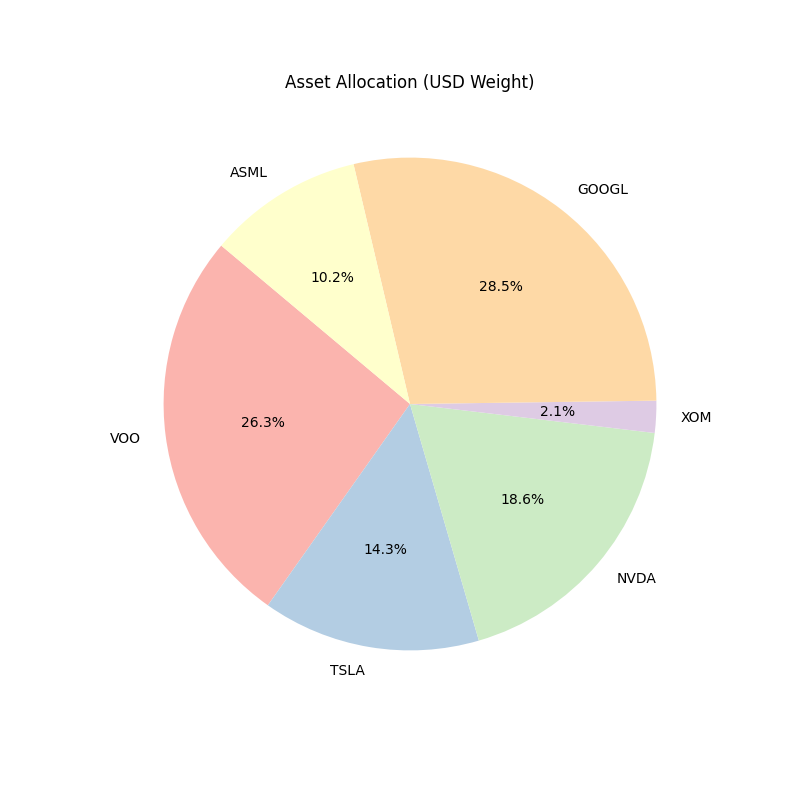
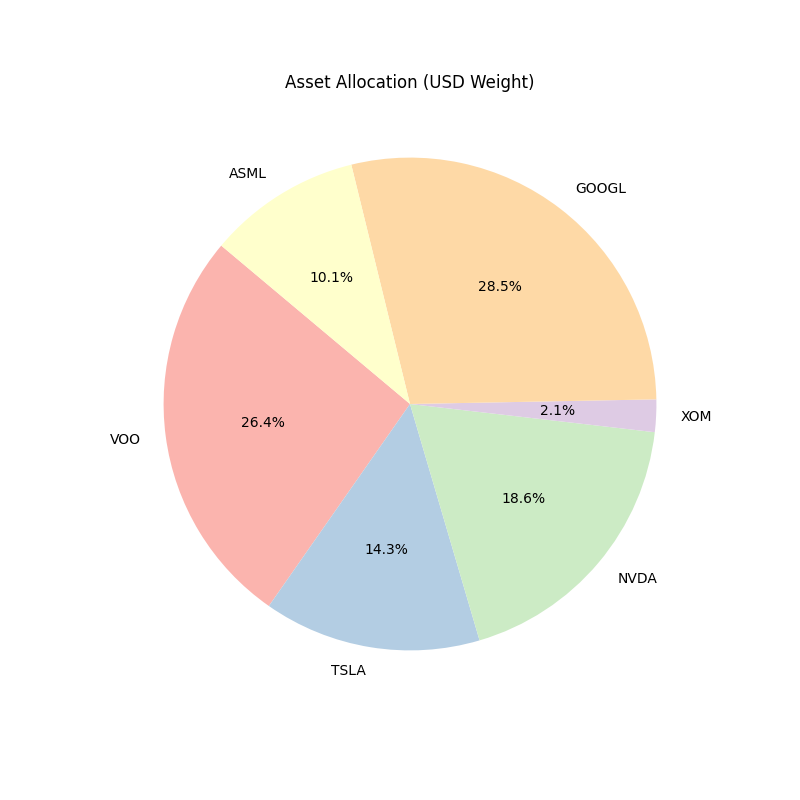
Data Update: Prices & Charts [skip ci]

diff --git a/README.md b/README.md
@@ -1,12 +1,12 @@
 # 📊 Portfolio Dashboard
-**עודכן ב:** 19/02/2026 00:39 | **שער דולר:** ₪3.119
+**עודכן ב:** 19/02/2026 16:54 | **שער דולר:** ₪3.136
 
 ## 💰 סיכום ביצועים כולל
-- **שווי תיק:** `₪179,475`
-- **תשואה מצטברת:** `+36.66%`
+- **שווי תיק:** `₪179,594`
+- **תשואה מצטברת:** `+36.02%`
 - **מקס' ירידה מהשיא (Drawdown):** `-24.97%`
-- **מניית הכוכב 🚀:** ASML (+97.1%)
-- **המאכזבת 📉:** VOO (+13.9%)
+- **מניית הכוכב 🚀:** ASML (+93.3%)
+- **המאכזבת 📉:** VOO (+13.8%)
 
 ## 📈 גרף ביצועים (מול S&P 500)
 ![Performance](./data_hub/portfolio_performance.png)
@@ -17,12 +17,12 @@
 ## 📊 פירוט אחזקות
 | מניה | כמות | שווי (₪) | משקל בתיק |
 | :--- | :--- | :--- | :--- |
-| VOO | 24 | ₪47,248 | 26.3% |
-| TSLA | 20 | ₪25,653 | 14.3% |
-| NVDA | 57 | ₪33,407 | 18.6% |
-| XOM | 8 | ₪3,759 | 2.1% |
-| GOOGL | 54 | ₪51,087 | 28.5% |
-| ASML | 4 | ₪18,320 | 10.2% |
+| VOO | 24 | ₪47,422 | 26.4% |
+| TSLA | 20 | ₪25,611 | 14.3% |
+| NVDA | 57 | ₪33,438 | 18.6% |
+| XOM | 8 | ₪3,819 | 2.1% |
+| GOOGL | 54 | ₪51,237 | 28.5% |
+| ASML | 4 | ₪18,067 | 10.1% |
 
 ---
 📂 *כל הנתונים והארכיון שמורים בתיקיית כתובת האתר לתצוגה:`data_hub`*
